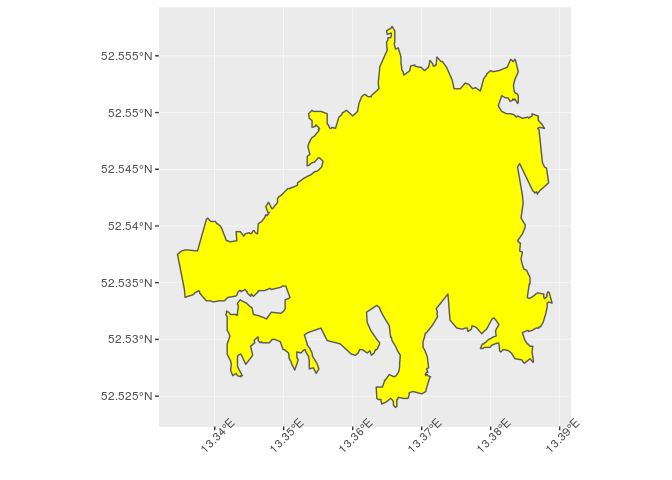
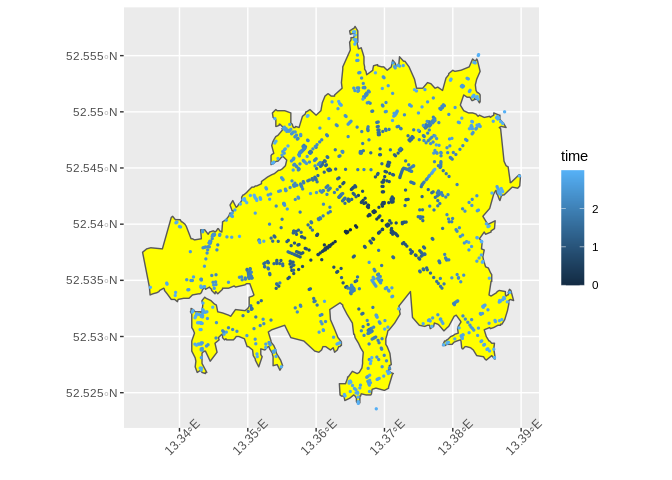
Update README

diff --git a/README.md b/README.md
@@ -1,21 +1,40 @@
 
 <!-- README.md is generated from README.Rmd. Please edit that file -->
-graphhopper-R
-=============
+
+# graphhopper-R
 
 <!-- badges: start -->
-[![CRAN status](https://www.r-pkg.org/badges/version/graphhopper)](https://CRAN.R-project.org/package=graphhopper) [![Travis build status](https://travis-ci.org/crazycapivara/graphhopper-r.svg?branch=master)](https://travis-ci.org/crazycapivara/graphhopper-r) [![Project Status: Active – The project has reached a stable, usable state and is being actively developed.](https://www.repostatus.org/badges/latest/active.svg)](https://www.repostatus.org/#active) [![R build status](https://github.com/crazycapivara/graphhopper-r/workflows/R-CMD-check/badge.svg)](https://github.com/crazycapivara/graphhopper-r/actions) <!-- badges: end -->
 
-An R Interface to the [GraphHopper](https://www.graphhopper.com/) Directions API
+[![CRAN
+status](https://www.r-pkg.org/badges/version/graphhopper)](https://CRAN.R-project.org/package=graphhopper)
+[![github\_status\_badge](https://img.shields.io/badge/github-0.1.2-blue.svg)](https://github.com/crazycapivara/deckgl/releases/latest)
+[![Travis build
+status](https://travis-ci.org/crazycapivara/graphhopper-r.svg?branch=master)](https://travis-ci.org/crazycapivara/graphhopper-r)
+[![Project Status: Active – The project has reached a stable, usable
+state and is being actively
+developed.](https://www.repostatus.org/badges/latest/active.svg)](https://www.repostatus.org/#active)
+[![R build
+status](https://github.com/crazycapivara/graphhopper-r/workflows/R-CMD-check/badge.svg)](https://github.com/crazycapivara/graphhopper-r/actions)
+<!-- badges: end -->
 
-The purpose of {graphhopper} is to provide a quick and easy access to the GraphHopper Directions API. Responses can be converted into simple feature (sf) objects in a convenient way. The package is not a complete wrapper of the API. Currently it mainly supports the API also included in [Graphhopper's Open Source routing engine](https://github.com/graphhopper/graphhopper). New features will be added continuously.
+An R Interface to the [GraphHopper](https://www.graphhopper.com/)
+Directions API
 
-Dive into the [documentation here](https://crazycapivara.github.io/graphhopper-r/).
+The purpose of {graphhopper} is to provide a quick and easy access to
+the GraphHopper Directions API. Responses can be converted into simple
+feature (sf) objects in a convenient way. The package is not a complete
+wrapper of the API. Currently it mainly supports the API also included
+in [Graphhopper’s Open Source routing
+engine](https://github.com/graphhopper/graphhopper). New features will
+be added continuously.
 
-Installation
-------------
+Dive into the [documentation
+here](https://crazycapivara.github.io/graphhopper-r/).
 
-Install the release version from [CRAN](https://cran.r-project.org/) with:
+## Installation
+
+Install the release version from [CRAN](https://cran.r-project.org/)
+with:
 
 ``` r
 install.packages("graphhopper")
@@ -28,8 +47,7 @@ Install the development version from [GitHub](https://github.com/) with:
 remotes::install_github("crazycapivara/graphhopper-r")
 ```
 
-Get started
------------
+## Get started
 
 Run your own GraphHopper instance (with data of Berlin):
 
@@ -50,9 +68,9 @@ info <- gh_get_info()
 info$version
 #> [1] "2.0"
 info$data_date
-#> [1] "2020-11-10T21:42:03Z"
+#> [1] "2020-12-04T21:42:03Z"
 gh_bbox(info)
-#> [1] 13.06979 52.33306 13.76408 52.67962
+#> [1] 13.06979 52.33306 13.76352 52.67962
 ```
 
 ### Route
@@ -71,19 +89,19 @@ end_point <- c(52.539614, 13.364868)
 #> bbox:           xmin: 13.36501 ymin: 52.53949 xmax: 13.41483 ymax: 52.59234
 #> CRS:            EPSG:4326
 #>     time distance                       geometry
-#> 1 697411 7541.318 LINESTRING (13.41422 52.592...
+#> 1 697420 7541.438 LINESTRING (13.41422 52.592...
 
 ggplot(data = route) +
   geom_sf() +
   theme(axis.text.x = element_text(angle = 45))
 ```
 
-![](man/figures/README-route-example-1.png)
+![](man/figures/README-route-example-1.png)<!-- -->
 
 ``` r
 
 route$time
-#> [1] 697411
+#> [1] 697420
 
 via_point <- c(52.545461, 13.435249)
 
@@ -101,7 +119,7 @@ ggplot(data = gh_as_sf(route2)) +
   theme(axis.text.x = element_text(angle = 45))
 ```
 
-![](man/figures/README-route-example-2.png)
+![](man/figures/README-route-example-2.png)<!-- -->
 
 ``` r
 
@@ -147,7 +165,7 @@ ggplot() +
   theme(axis.text.x = element_text(angle = 45))
 ```
 
-![](man/figures/README-spt-example-1.png)
+![](man/figures/README-spt-example-1.png)<!-- -->
 
 Also query previous nodes to plot the network:
 
@@ -169,7 +187,7 @@ ggplot() +
   theme(axis.text.x = element_text(angle = 45))
 ```
 
-![](man/figures/README-spt-example-lines-1.png)
+![](man/figures/README-spt-example-lines-1.png)<!-- -->
 
 ### Isochrone
 
@@ -181,7 +199,8 @@ isochrone_sf <- gh_get_isochrone(start_point, time_limit = 180) %>%
 
 ggplot() +
   geom_sf(data = isochrone_sf, fill = "yellow") +
+  geom_sf(data = points_sf, aes(colour = time), size = 0.5) +
   theme(axis.text.x = element_text(angle = 45))
 ```
 
-![](man/figures/README-isochrone-example-1.png)
+![](man/figures/README-isochrone-example-1.png)<!-- -->
